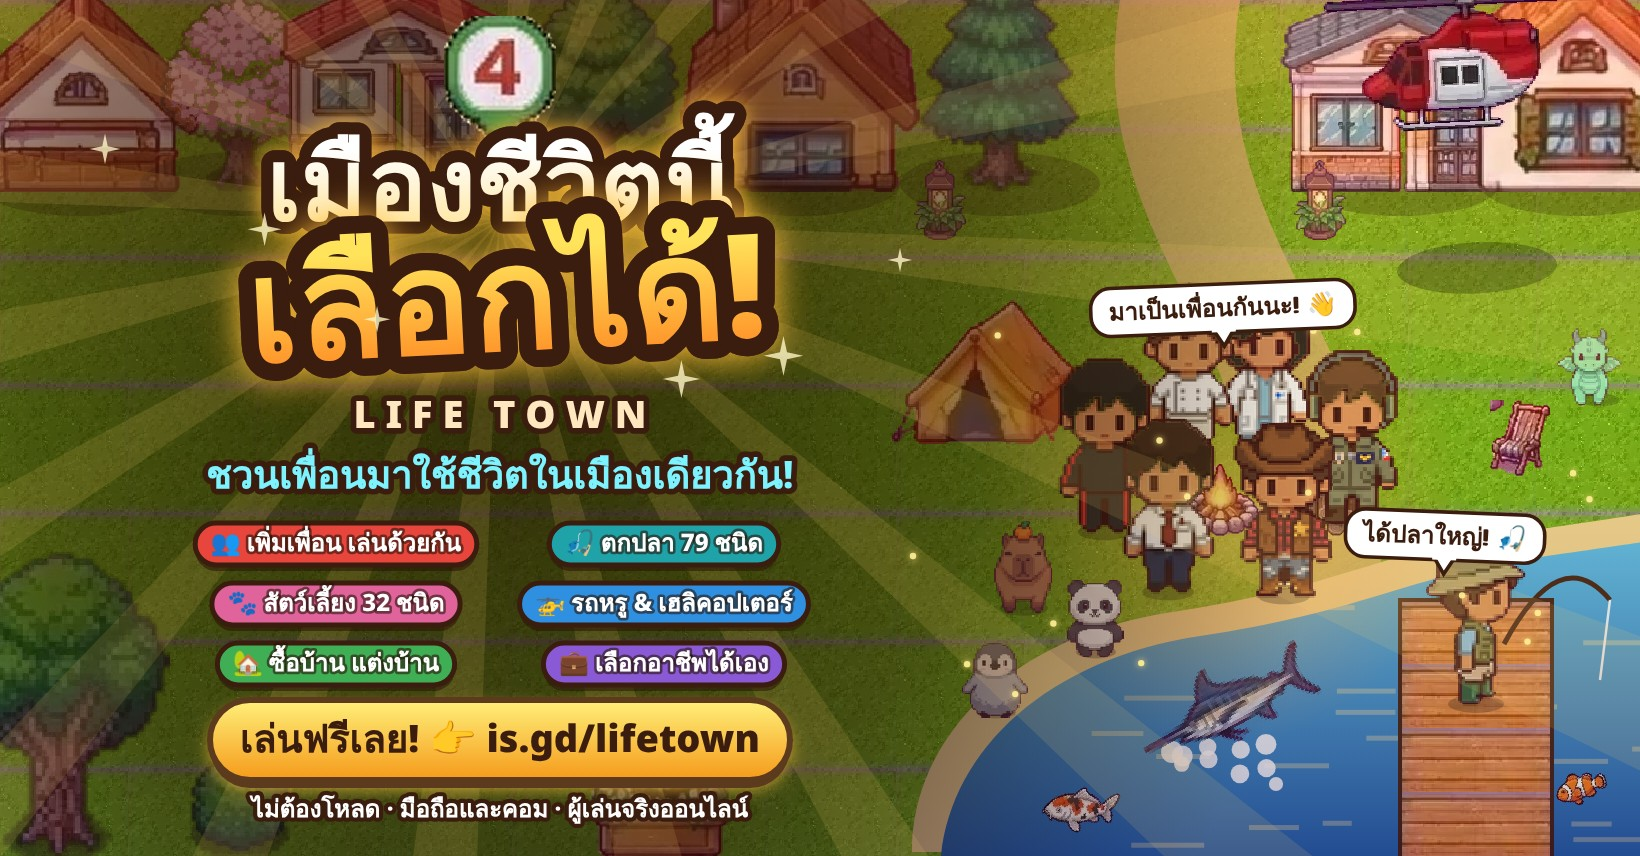
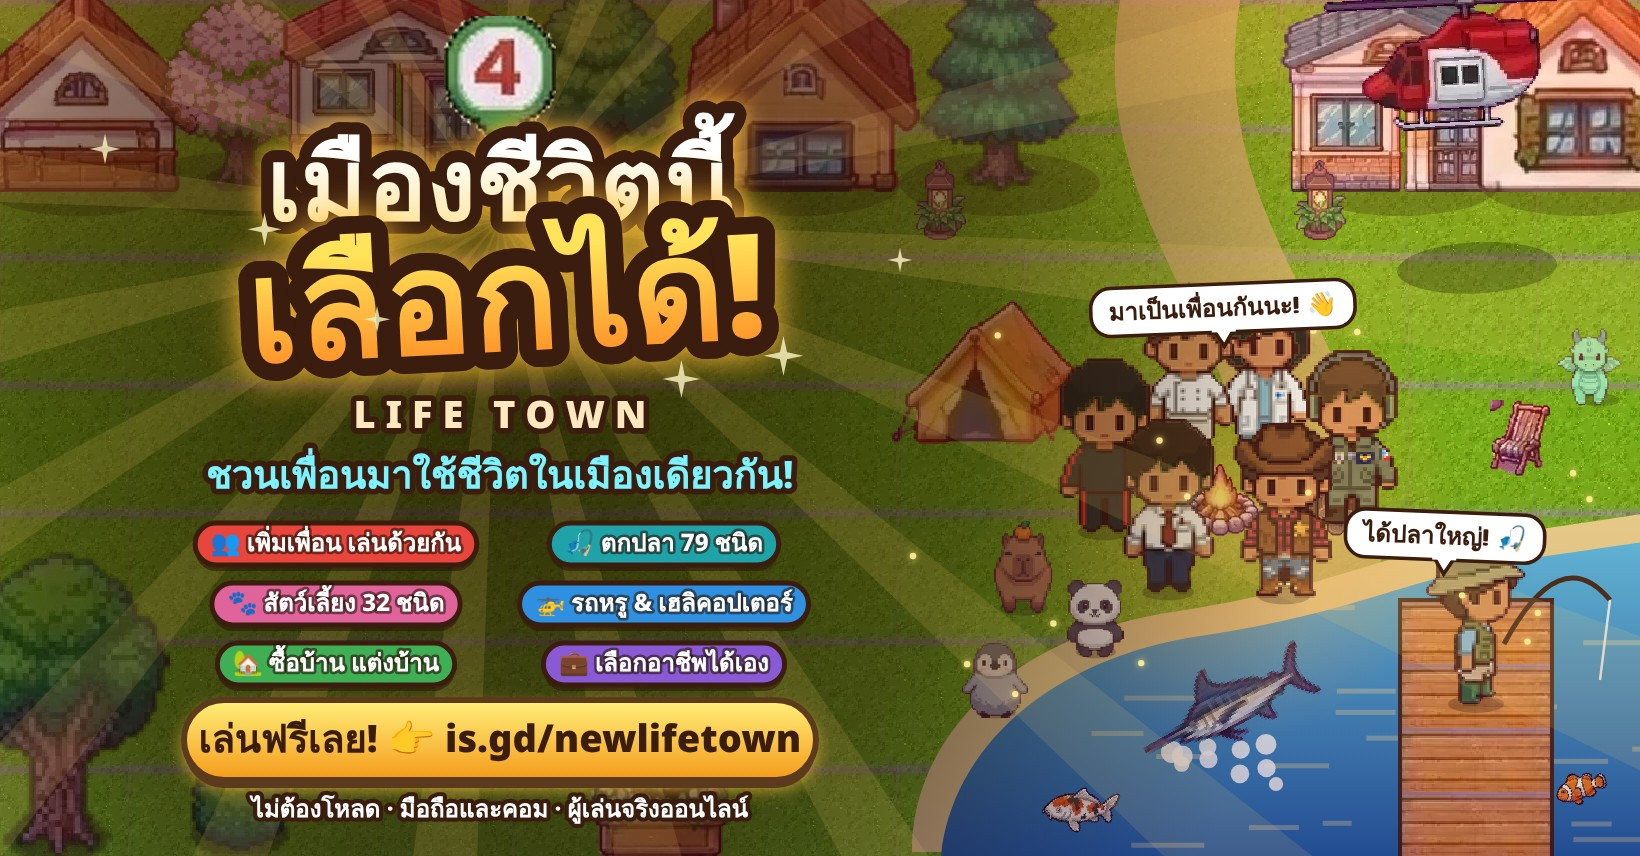
Cover v3: link is.gd/newlifetown
Claude-Session: https://claude.ai/code/session_011vTRLbxB6r7N8QNjk4xwrF

Changed region(s): [[0.0933, 0.8201, 0.5287, 0.9416]]

diff --git a/tools/social_cover3.html b/tools/social_cover3.html
@@ -201,7 +201,7 @@ function cover3(t) {
   const chips = [['👥 เพิ่มเพื่อน เล่นด้วยกัน', '#e8453c'], ['🎣 ตกปลา 79 ชนิด', '#1fa3a8'], ['🐾 สัตว์เลี้ยง 32 ชนิด', '#e0639b'],
     ['🚁 รถหรู & เฮลิคอปเตอร์', '#2f8fe0'], ['🏡 ซื้อบ้าน แต่งบ้าน', '#3fae55'], ['💼 เลือกอาชีพได้เอง', '#8a5ad6']];
   chips.forEach(([l, c], i) => chip(cx + (i % 2 ? 1 : -1) * 82, 272 + Math.floor(i / 2) * 30, l, c, 12));
-  btn(cx, 370, 'เล่นฟรีเลย! 👉 is.gd/lifetown', 290, 40, 19);
+  btn(cx, 370, 'เล่นฟรีเลย! 👉 is.gd/newlifetown', 316, 40, 19);
   text('ไม่ต้องโหลด · มือถือและคอม · ผู้เล่นจริงออนไลน์', cx, 406, 12, { color: '#ffffff', weight: 800, sw: .35 });
   for (let i = 0; i < 6; i++) sparkle(cx + Math.cos(i * 1.1) * 200, 130 + Math.sin(i * 1.7) * 60, 5 + rnd(i) * 6, .8);
 }
